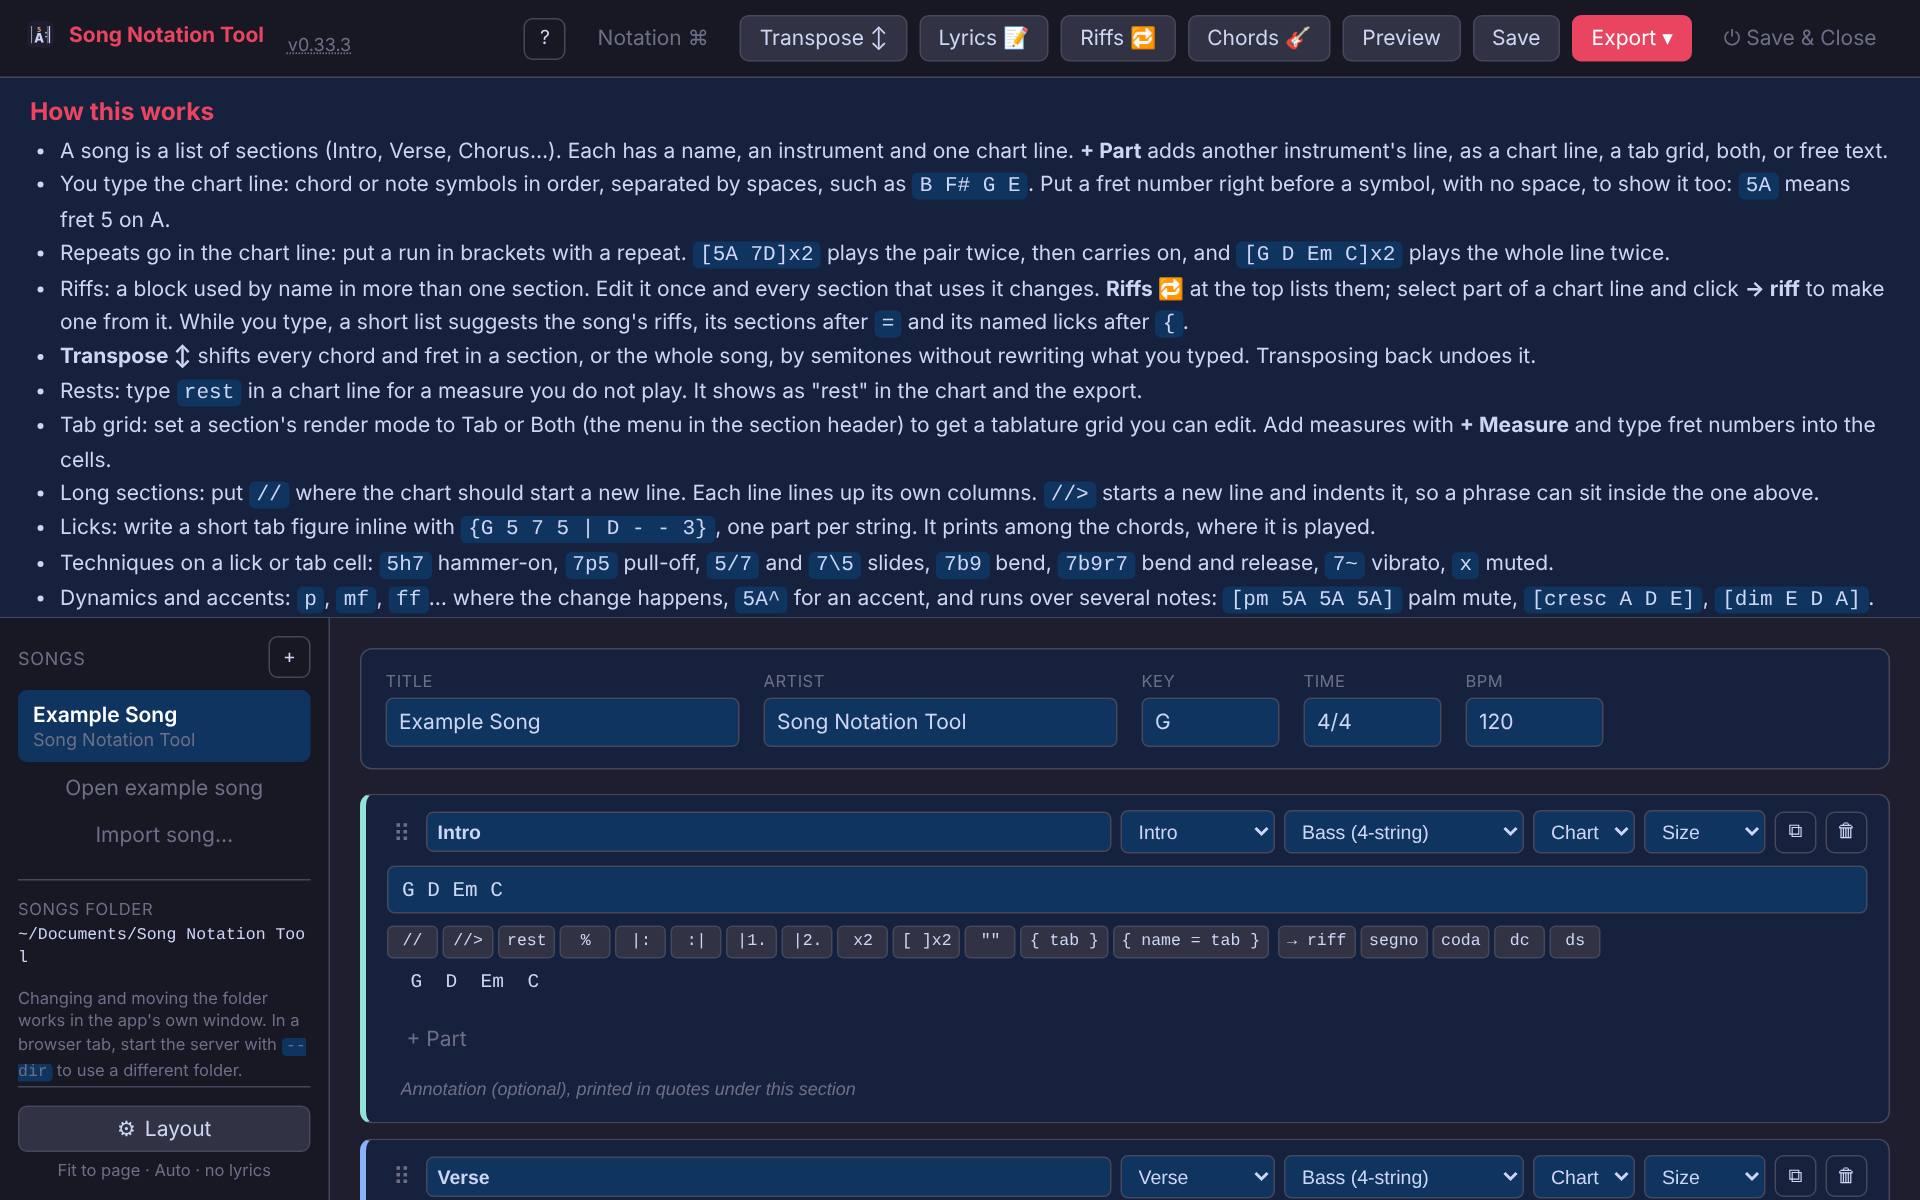
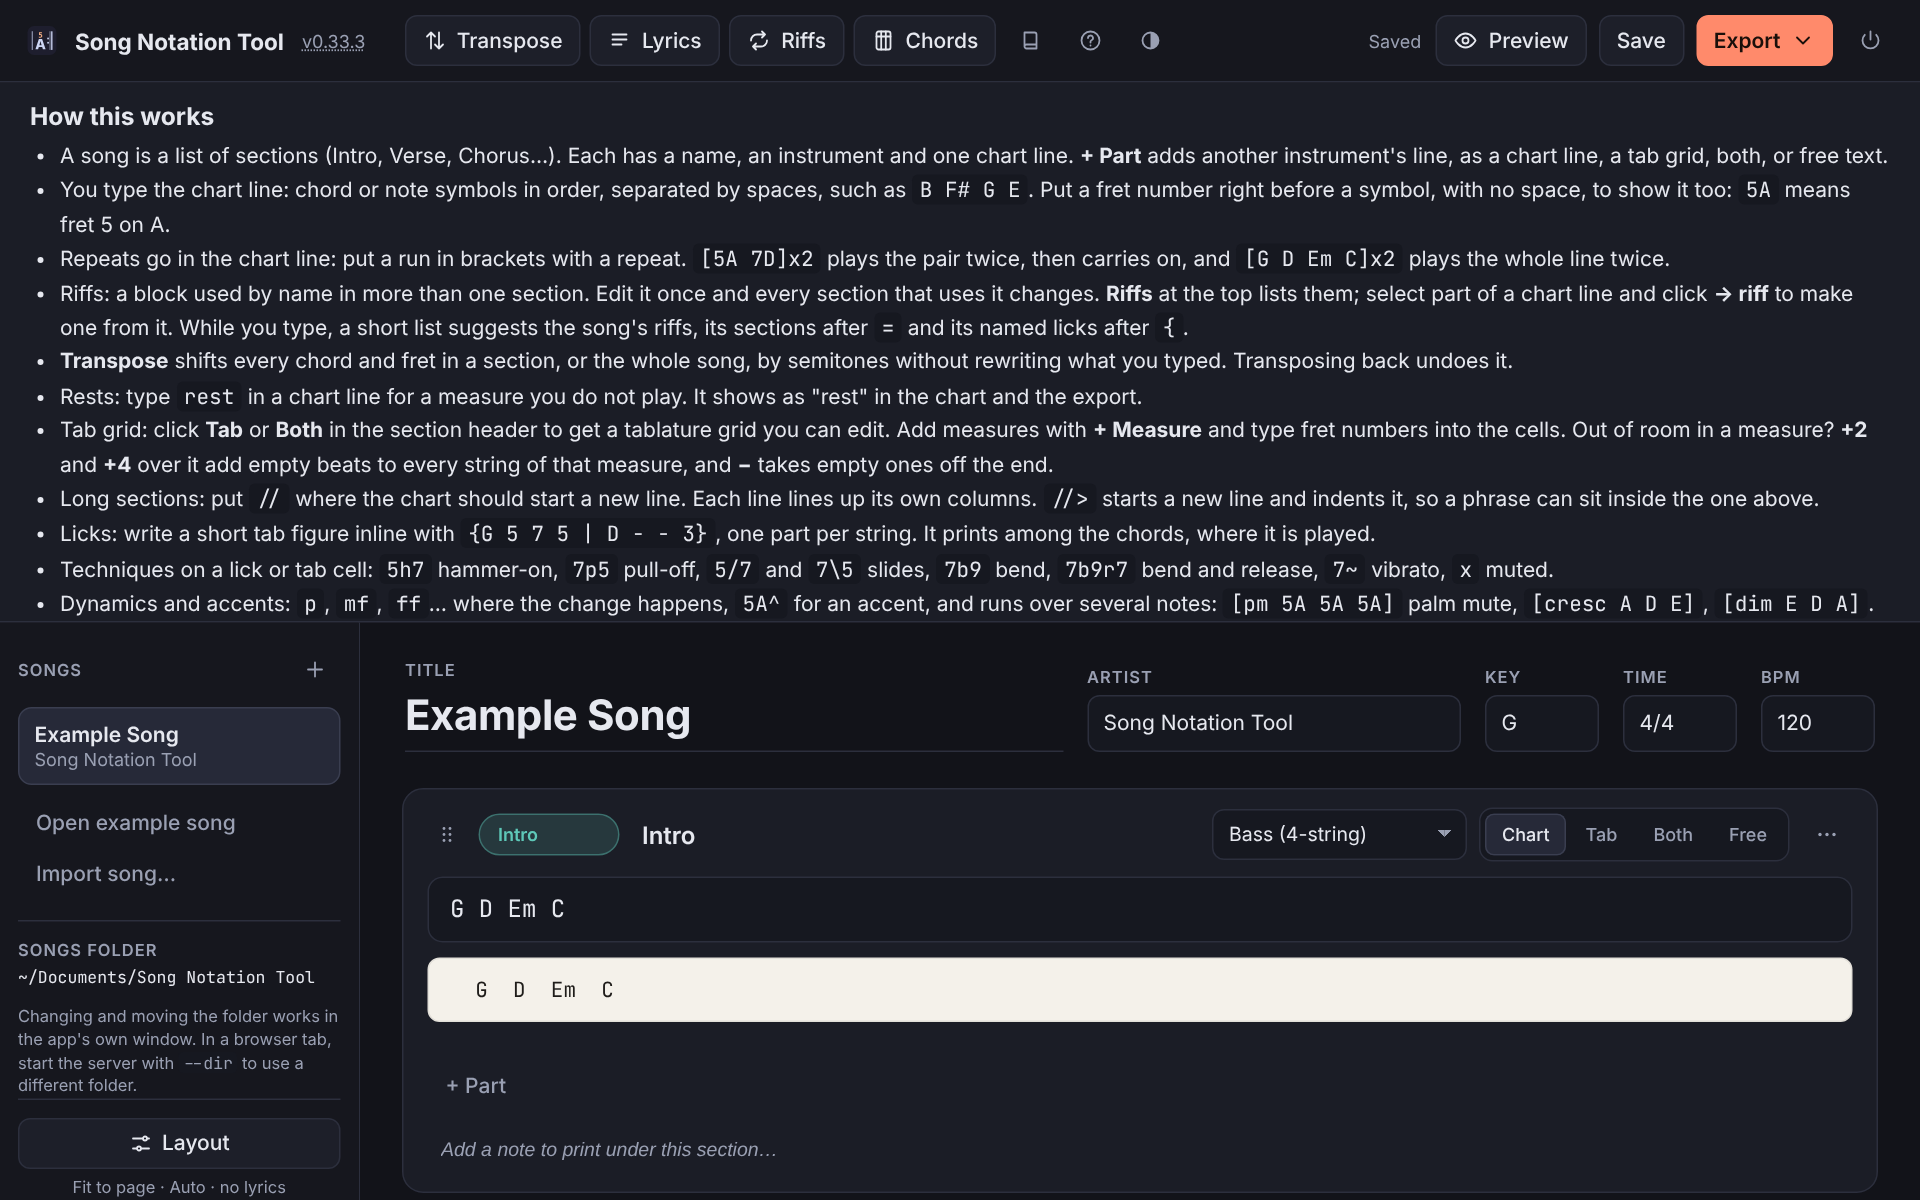
docs: screenshots for v0.34.0, with the tab grid
Claude-Session: https://claude.ai/code/session_01C97HwoK1EzwVf4DnWNtj9D

diff --git a/tools/shots.py b/tools/shots.py
@@ -52,6 +52,7 @@ PICTURES = [
     ("notation-reference.png", "the Notation ⌘ reference"),
     ("help-strip.png", "the How this works strip"),
     ("export-menu.png", "the Export menu open"),
+    ("tab-grid.png", "a section in Tab, one measure made longer with +4"),
 ]
 
 
@@ -112,7 +113,7 @@ def take(url: str, out: str) -> list[str]:
     with sync_playwright() as p:
         browser = p.chromium.launch()
         page = browser.new_page(viewport={"width": WIDTH, "height": HEIGHT},
-                                device_scale_factor=SCALE)
+                                device_scale_factor=SCALE, color_scheme="dark")
         errors = []
         page.on("pageerror", lambda e: errors.append(str(e)))
 
@@ -156,6 +157,7 @@ def take(url: str, out: str) -> list[str]:
         shot("editor.png", 800)
 
         # Copy the verse: the list opens with "after this one" highlighted.
+        page.click(".section-card:nth-child(2) .sec-more")
         page.click(".section-card:nth-child(2) .sec-dup")
         shot("section-copy.png", 300)
         page.click(".copy-picker-row >> text=After 3.")    # a second verse after the chorus
@@ -211,6 +213,21 @@ def take(url: str, out: str) -> list[str]:
         reopen()
         page.click("#btn-export")
         shot("export-menu.png", 300)
+
+        # A section in Tab: a bass line in the first measure, then +4 on
+        # the second, with the new beats still tinted.
+        reopen()
+        card = page.locator(".section-card").nth(0)
+        card.locator('.sec-render button[data-mode="tab"]').click()
+        card.locator(".tab-add-measure").click()
+        card.locator(".tab-add-measure").click()
+        rows = card.locator(".tab-grid-table tbody tr")
+        for row, beat, fret in [(3, 0, "3"), (3, 4, "3"), (2, 2, "5"), (2, 6, "5"),
+                                (3, 8, "3"), (2, 10, "5"), (1, 13, "7"), (3, 12, "5")]:
+            rows.nth(row).locator("input.tab-cell").nth(beat).fill(fret)
+        card.locator(".tab-size-btn >> text=+4").nth(1).click()
+        card.scroll_into_view_if_needed()
+        shot("tab-grid.png", 250)
 
         browser.close()
         if errors:
